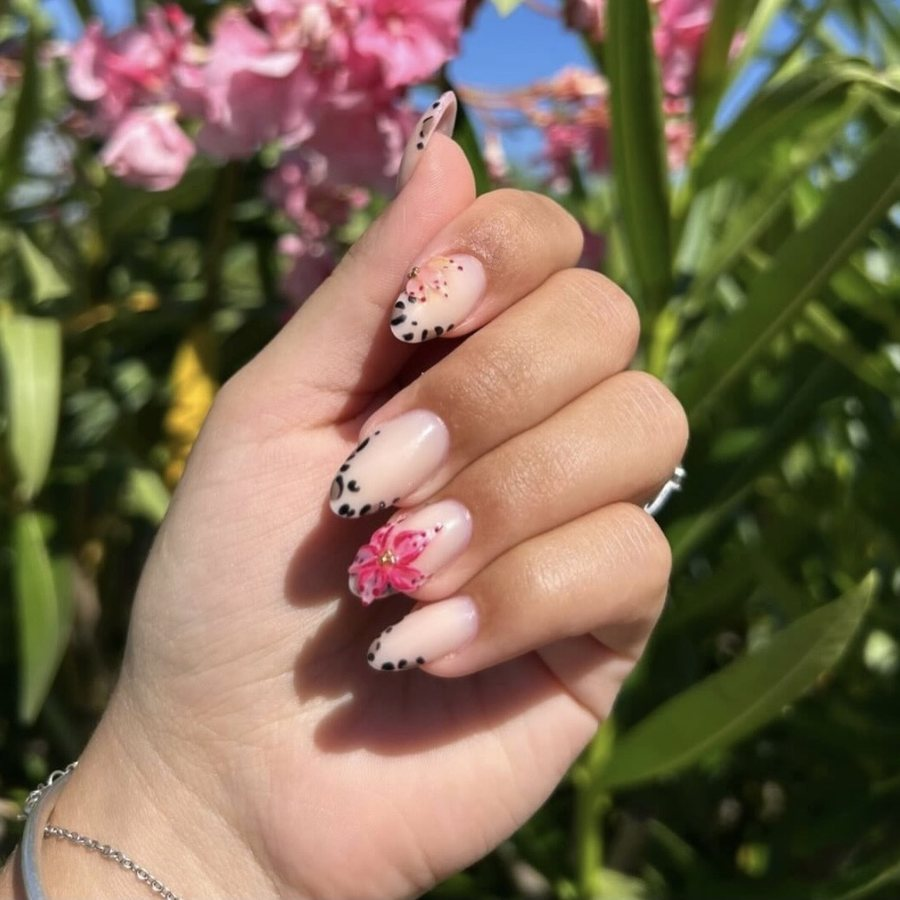
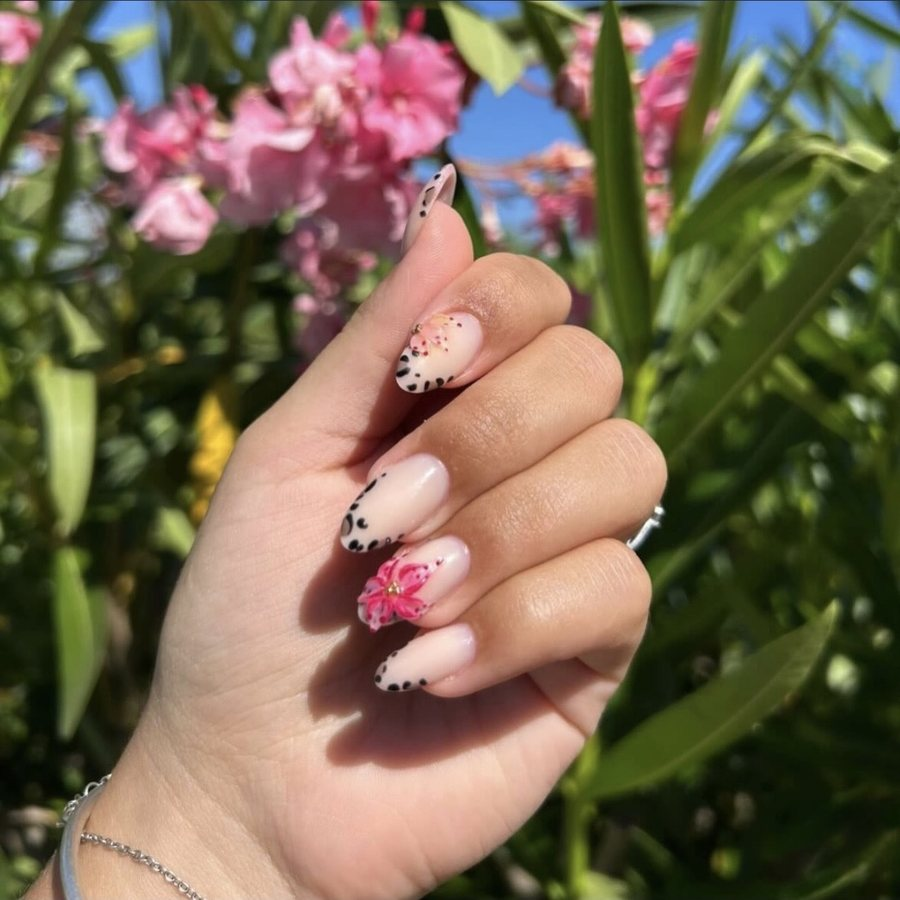
Take the second corrected nail photo, and make stale trims visible
The salon re-cropped the leopard-and-flower photo too, so it goes in as
delivered and its trim line comes out of the table. It keeps its full
framing now — the oleander at the top was being cut for a counter that
is no longer there.

Which exposes a hole in the guard I added last time. It refuses to run
when the table names a file that no longer exists, and I said that was
what a re-corrected photo looks like from the inside. It isn't: the
salon sends the fix back under the same name, so the file is still
there and the guard stays quiet while the script keeps cutting a band
that has gone.

So the script now reports the trim it applied, file by file, next to
each output line. A band announced on a photo you have just corrected is
something you notice. Two files trimmed, six untouched, and the output
says which.

Claude-Session: https://claude.ai/code/session_019UoUbTyNjngeRaKzvfjkfZ

diff --git a/scripts/prepare-galerie.py b/scripts/prepare-galerie.py
@@ -44,12 +44,17 @@ FAMILLES = {
 #
 # Au fichier et non à la famille, parce que la plupart n'ont rien à
 # retirer : rogner les quatre pour le compte de l'une aurait mangé le
-# cadrage des trois autres sans raison. Le salon a d'ailleurs recorrigé
-# une photo lui-même depuis ; sa ligne a disparu d'ici.
+# cadrage des trois autres sans raison.
+#
+# Cette table se périme. Le salon peut renvoyer une photo qu'il a
+# recadrée lui-même, sous le même nom : la ligne d'ici continuerait alors
+# à rogner une bande qui n'existe plus. Le contrôle plus bas n'attrape
+# que le fichier disparu, pas celui-là — d'où le rappel du rognage
+# appliqué dans la sortie du script : une bande annoncée sur une photo
+# qu'on vient de corriger se voit.
 INTERFACE = {
-    'ongles-2-leopard-fleur.jpg': dict(rogne_haut=0.09),     # « 3/3 »
     'ongles-3-french-couleurs.jpg': dict(rogne_droite=0.025),  # barre de défilement
-    'cils-3.jpg': dict(rogne_droite=0.025),                  # barre de défilement
+    'cils-3.jpg': dict(rogne_droite=0.025),                    # barre de défilement
 }
 
 
@@ -86,8 +91,13 @@ def main() -> None:
         out = SORTIE / f.name
         propre.save(out, 'JPEG', quality=QUALITE, optimize=True, progressive=True)
         reste = len(Image.open(out).getexif())
+        coupes = ', '.join(
+            f'{cote} {part:.0%}'
+            for cote, part in (('haut', haut), ('droite', droite)) if part
+        )
         print(f'{out}  {propre.width}x{propre.height}  '
-              f'{out.stat().st_size / 1024:.0f} Ko  métadonnées restantes : {reste}')
+              f'{out.stat().st_size / 1024:.0f} Ko  métadonnées restantes : {reste}'
+              + (f'  ← rogné : {coupes}' if coupes else ''))
 
 
 if __name__ == '__main__':

diff --git a/README.md b/README.md
@@ -447,10 +447,14 @@ l'écran du téléphone qu'on retire, pas la photo qu'on arrange.
 
 Le réglage se fait **fichier par fichier**, pas par famille : la plupart
 n'ont rien à retirer, et rogner les quatre pour le compte d'une seule
-aurait mangé le cadrage des trois autres sans raison. Le script refuse de
-tourner si cette table vise un fichier qui n'existe plus — une photo
-recorrigée par le salon, par exemple, dont la ligne doit alors
-disparaître.
+aurait mangé le cadrage des trois autres sans raison.
+
+Cette table se périme, et deux garde-fous s'en occupent. Le script refuse
+de tourner si elle vise un fichier qui n'existe plus. Et il **annonce en
+sortie la bande qu'il a coupée**, fichier par fichier — parce que le cas
+courant n'est pas le fichier disparu mais la photo renvoyée corrigée sous
+le même nom, que le premier contrôle ne voit pas : une bande annoncée sur
+une photo qu'on vient de corriger, elle, se remarque.
 
 Les fichiers de cils sont numérotés, pas nommés par technique : on ne
 distingue pas à l'œil une pose cil à cil d'une mixte ou d'un volume
